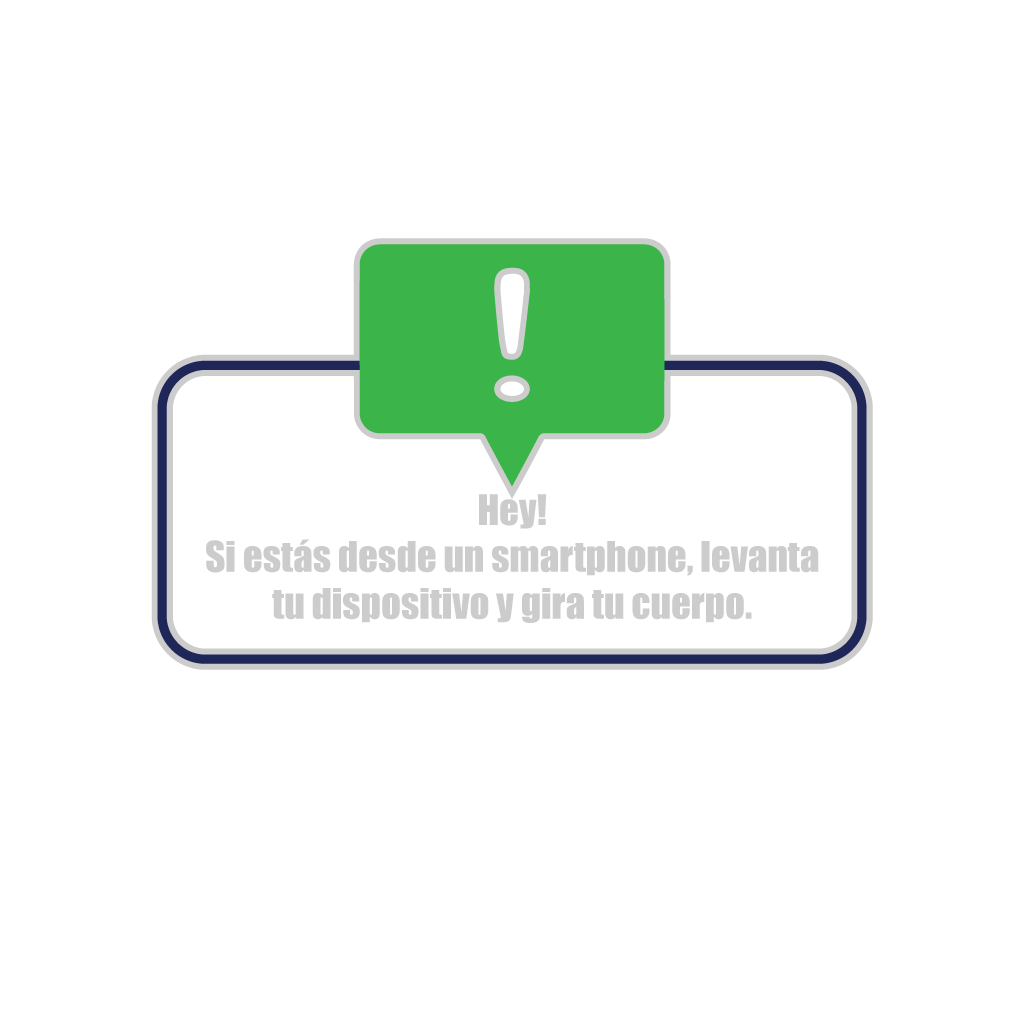
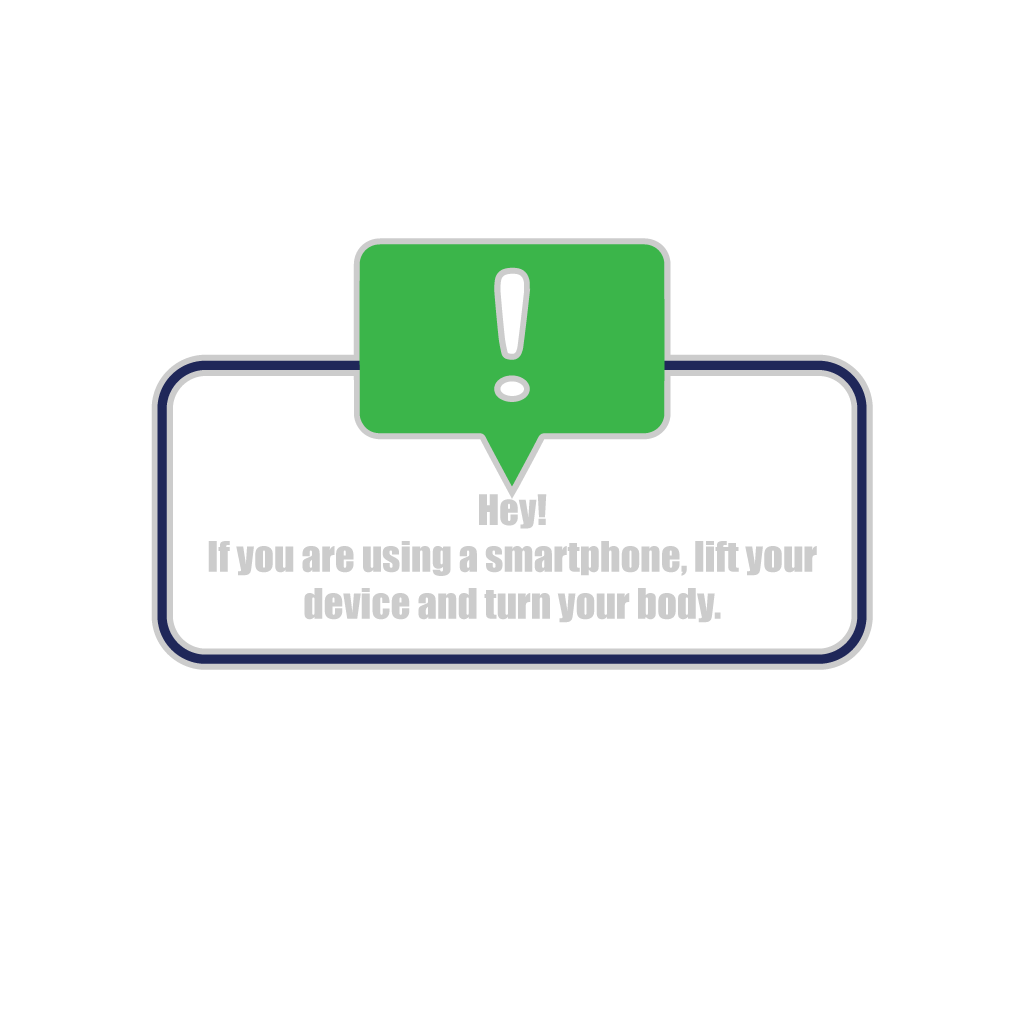
v9. Reseteo de caché, efecto lumínico y óptico en el Sol, traducción de instrucciones-

Changed region(s): [[0.1875, 0.5312, 0.8125, 0.625]]

diff --git a/js/optical-flare.js b/js/optical-flare.js
@@ -1,0 +1,87 @@
+/**
+ * COMPONENTE ÓPTICO PROCEDIMENTAL (Lens Flare & Bloom)
+ * Simula la dispersión de la luz en la lente de una cámara espacial.
+ */
+AFRAME.registerComponent('solar-flare', {
+    init: function () {
+        // 1. GENERADOR PROCEDIMENTAL DE TEXTURAS EN MEMORIA (Sin descargas)
+        
+        // Función interna para crear un gradiente de luz esférica (Bloom)
+        const createGlowTexture = () => {
+            const canvas = document.createElement('canvas');
+            canvas.width = 256; canvas.height = 256;
+            const ctx = canvas.getContext('2d');
+            const gradient = ctx.createRadialGradient(128, 128, 0, 128, 128, 128);
+            gradient.addColorStop(0, 'rgba(255, 255, 255, 1)'); // Centro blanco brillante
+            gradient.addColorStop(0.1, 'rgba(255, 245, 200, 0.8)'); // Amarillo intenso
+            gradient.addColorStop(0.5, 'rgba(255, 200, 50, 0.2)'); // Naranja difuso
+            gradient.addColorStop(1, 'rgba(0, 0, 0, 0)'); // Desvanecimiento
+            ctx.fillStyle = gradient;
+            ctx.fillRect(0, 0, 256, 256);
+            return new THREE.CanvasTexture(canvas);
+        };
+
+        // Función interna para crear los rayos / destellos de estrella (Flare)
+        const createStarFlareTexture = () => {
+            const canvas = document.createElement('canvas');
+            canvas.width = 512; canvas.height = 512;
+            const ctx = canvas.getContext('2d');
+            const cx = 256, cy = 256;
+
+            // Dibujar cruz de destello (Astigmatismo de lente)
+            ctx.beginPath();
+            ctx.moveTo(cx, 0); ctx.lineTo(cx, 512); // Línea vertical
+            ctx.moveTo(0, cy); ctx.lineTo(512, cy); // Línea horizontal
+            // Rayos diagonales
+            ctx.moveTo(75, 75); ctx.lineTo(437, 437);
+            ctx.moveTo(437, 75); ctx.lineTo(75, 437);
+            
+            ctx.lineWidth = 4;
+            // Sombras para crear efecto de brillo
+            ctx.shadowBlur = 15;
+            ctx.shadowColor = "rgba(255, 220, 100, 1)";
+            ctx.strokeStyle = "rgba(255, 255, 255, 0.6)";
+            ctx.stroke();
+
+            return new THREE.CanvasTexture(canvas);
+        };
+
+        // 2. CONSTRUCCIÓN DE MATERIALES ÓPTICOS DE THREE.JS
+        // El Blending Aditivo asegura que la luz se sume al fondo estrellado.
+        
+        const glowMaterial = new THREE.SpriteMaterial({
+            map: createGlowTexture(),
+            color: 0xffffff,
+            blending: THREE.AdditiveBlending,
+            transparent: true,
+            depthWrite: false // Evita fallos de orden de renderizado (Z-fighting)
+        });
+
+        const starMaterial = new THREE.SpriteMaterial({
+            map: createStarFlareTexture(),
+            color: 0xffffff,
+            blending: THREE.AdditiveBlending,
+            transparent: true,
+            depthWrite: false
+        });
+
+        // 3. ENSAMBLAJE EN EL ESPACIO
+        this.glowSprite = new THREE.Sprite(glowMaterial);
+        this.glowSprite.scale.set(60, 60, 1); // Escala del Bloom
+
+        this.flareSprite = new THREE.Sprite(starMaterial);
+        this.flareSprite.scale.set(12, 12, 1); // Escala de los destellos largos
+
+        // Añadir a la entidad Sol
+        this.el.object3D.add(this.glowSprite);
+        this.el.object3D.add(this.flareSprite);
+    },
+    
+    // Rotar lentamente el destello en cada frame para simular efecto óptico cinemático
+    tick: function(time, timeDelta) {
+        if(this.flareSprite) {
+            // El material del sprite tiene una propiedad de rotación
+            this.flareSprite.material.rotation += 0.00006 * timeDelta;
+        }
+    }
+});

diff --git a/index.html b/index.html
@@ -8,11 +8,13 @@
     <link rel="shortcut icon" href="assets/mateus_3d_favicon.png">
     <!-- 1. DEPENDENCIA PRINCIPAL (Debe cargar primero y bloquear el parseo hasta estar lista) -->
     <script src="https://aframe.io/releases/1.5.0/aframe.min.js"></script>
-    <link rel="stylesheet" href="css/styles.css">
+    <link rel="stylesheet" href="css/styles.css?v=1.0.1">
+    <script src="js/cache-manager.js?v=1.0.1"></script>
     <script src="js/blender-controls.js"></script>
     <!-- api-service no depende de A-Frame, pero telemetry-component depende de api-service -->
     <script src="js/api-service.js"></script>
     <script src="js/telemetry-component.js"></script>
+    <script src="js/optical-flare.js?v=1.0.1"></script>
     <script>
         document.addEventListener('contextmenu', event => event.preventDefault());
         document.onkeydown = function (e) {            
@@ -46,7 +48,7 @@
 
     <!-- Instrucciones de Navegación -->
     <div id="instructions">
-        <strong>VR/PC NAVIGATION:</strong> Hold Left Click to aim | <strong>WASD:</strong> to move | Click on planet to select | <strong>ORBIT:</strong> scroll click | <strong>Autor</strong> Jesús Mateus
+        Press <strong>F5</strong> or Refresh | <strong>VR/PC NAVIGATION:</strong> Hold Left Click to aim | <strong>WASD:</strong> to move | Click on planet to select | <strong>ORBIT:</strong> scroll click | <strong>Autor</strong> Jesús Mateus
     </div>
 
     <!-- ESCENA A-FRAME -->
@@ -68,10 +70,10 @@
             <img id="a2_alert_02" src="assets/a2_alert_02.png">
         </a-assets>
 
-        <!-- EL SOL (Iluminación y representación) -->
-        <a-entity id="sun" position="-500 0 -500">
-            <a-sphere radius="10" material="color: #ffffee; shader: flat;"></a-sphere>
-            <a-light type="point" color="#ffffff" intensity="3" distance="2000" decay="0"></a-light>
+        <!-- EL SOL (Con Lens Flare / Bloom Procedimental integrado) -->
+        <a-entity id="sun" position="-500 0 -500" solar-flare>
+            <a-sphere radius="10" material="color: #ffffff; shader: flat;"></a-sphere>
+            <a-light type="point" color="#ffffff" intensity="2" distance="3000" decay="0.5"></a-light>
         </a-entity>
         <!-- Luz ambiental tenue para ver la parte oscura de los planetas -->
         <a-light type="ambient" color="#0a0a1a" intensity="0.5"></a-light>

diff --git a/js/cache-manager.js b/js/cache-manager.js
@@ -1,0 +1,28 @@
+/**
+ * SISTEMA DE INVALIDACIÓN DE CACHÉ Y AUTO-RECARGA
+ * Verifica actualizaciones del repositorio en GitHub Pages.
+ */
+const APP_VERSION = "1.0.1"; // DEBES ACTUALIZAR ESTO MANUALMENTE AQUÍ Y EN version.json
+
+// Ejecutar una comprobación asíncrona cada 60,000 milisegundos (1 minuto)
+setInterval(async () => {
+    try {
+        // Date.now() rompe la caché de la CDN de Fastly (GitHub Pages)
+        const response = await fetch(`version.json?t=${Date.now()}`, {
+            cache: 'no-store'
+        });
+        
+        if (response.ok) {
+            const data = await response.json();
+            
+            // Si la versión en el servidor de GitHub es distinta a la de esta sesión local:
+            if (data.version !== APP_VERSION) {
+                console.warn(`[UPDATE] Nueva versión detectada: ${data.version}. Forzando purga de caché...`);
+                // location.reload(true) fuerza al navegador a ignorar la caché local y descargar todo de nuevo
+                window.location.reload(true);
+            }
+        }
+    } catch (error) {
+        // Fallo silencioso: Si el usuario pierde internet, no interrumpimos la experiencia 3D.
+    }
+}, 60000);

diff --git a/version.js b/version.js
@@ -1,0 +1,3 @@
+{
+    "version"; "1.0.1"
+}
